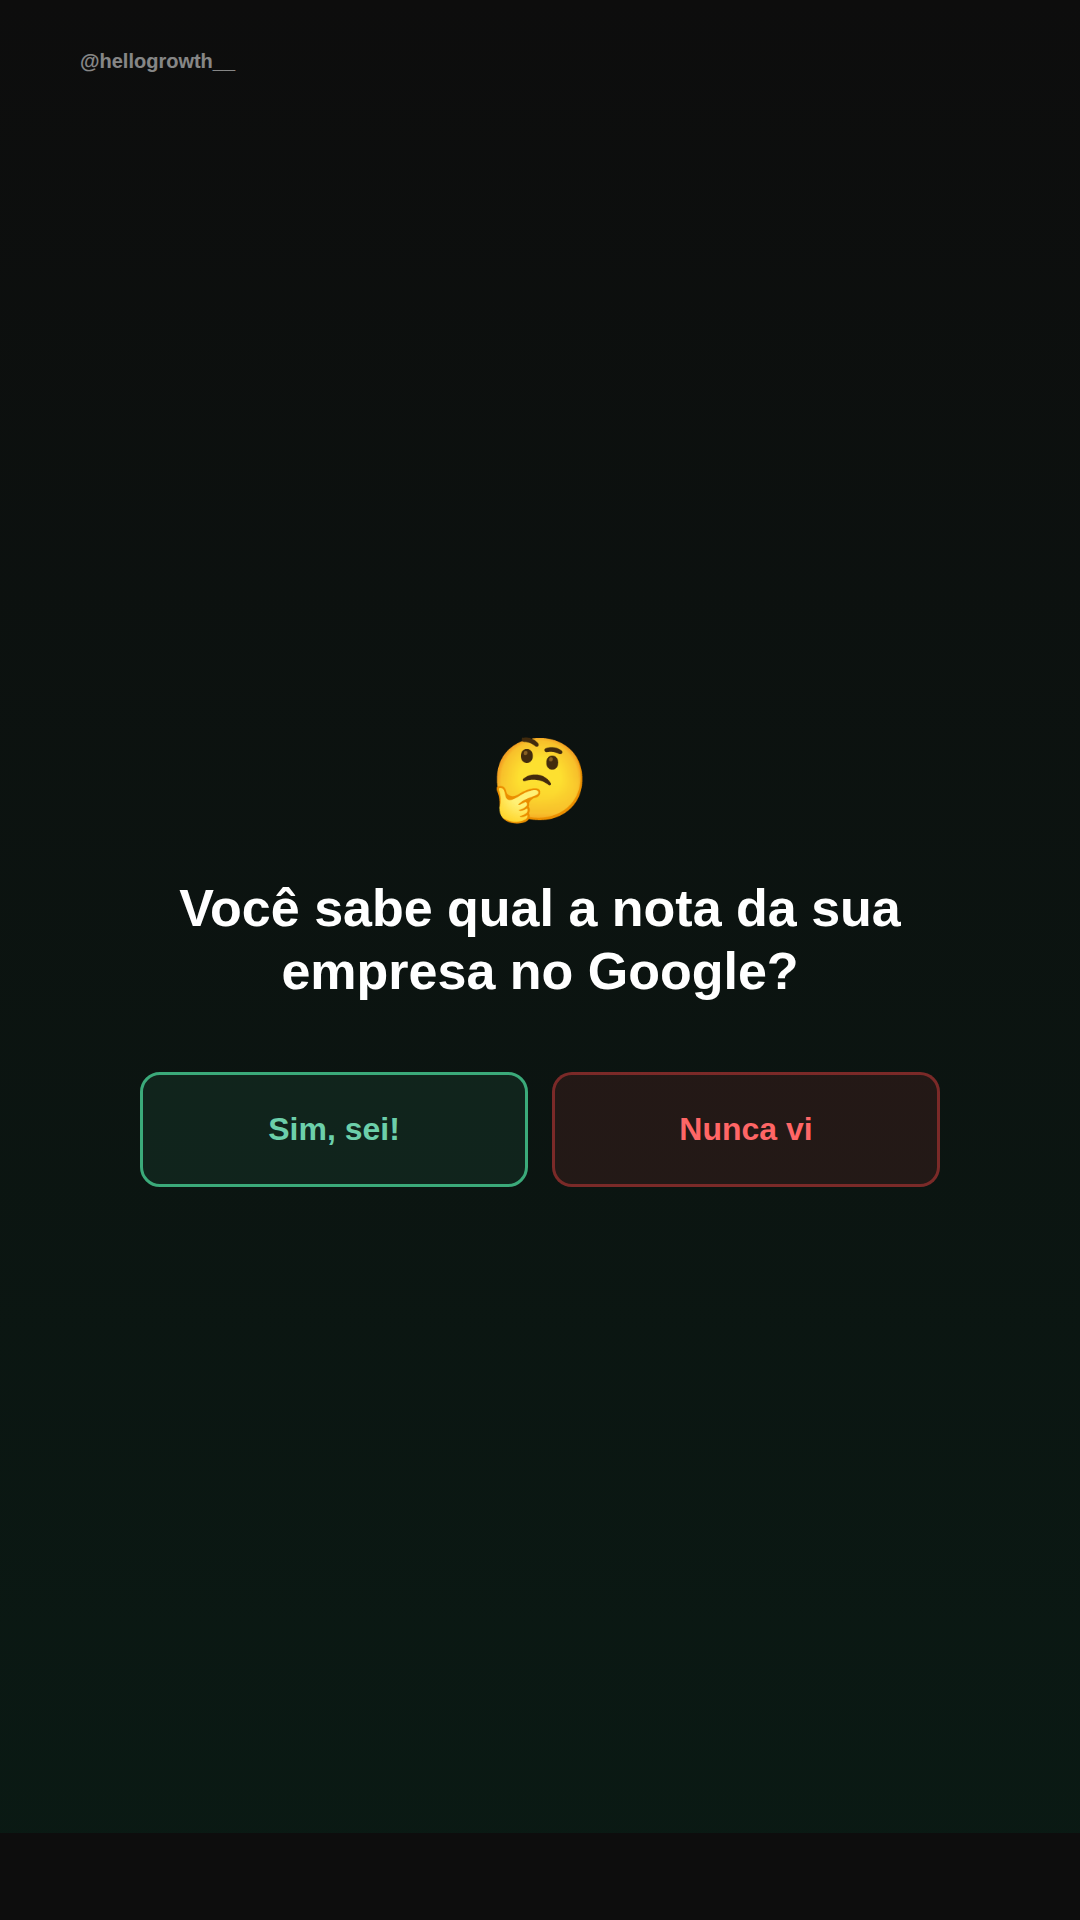
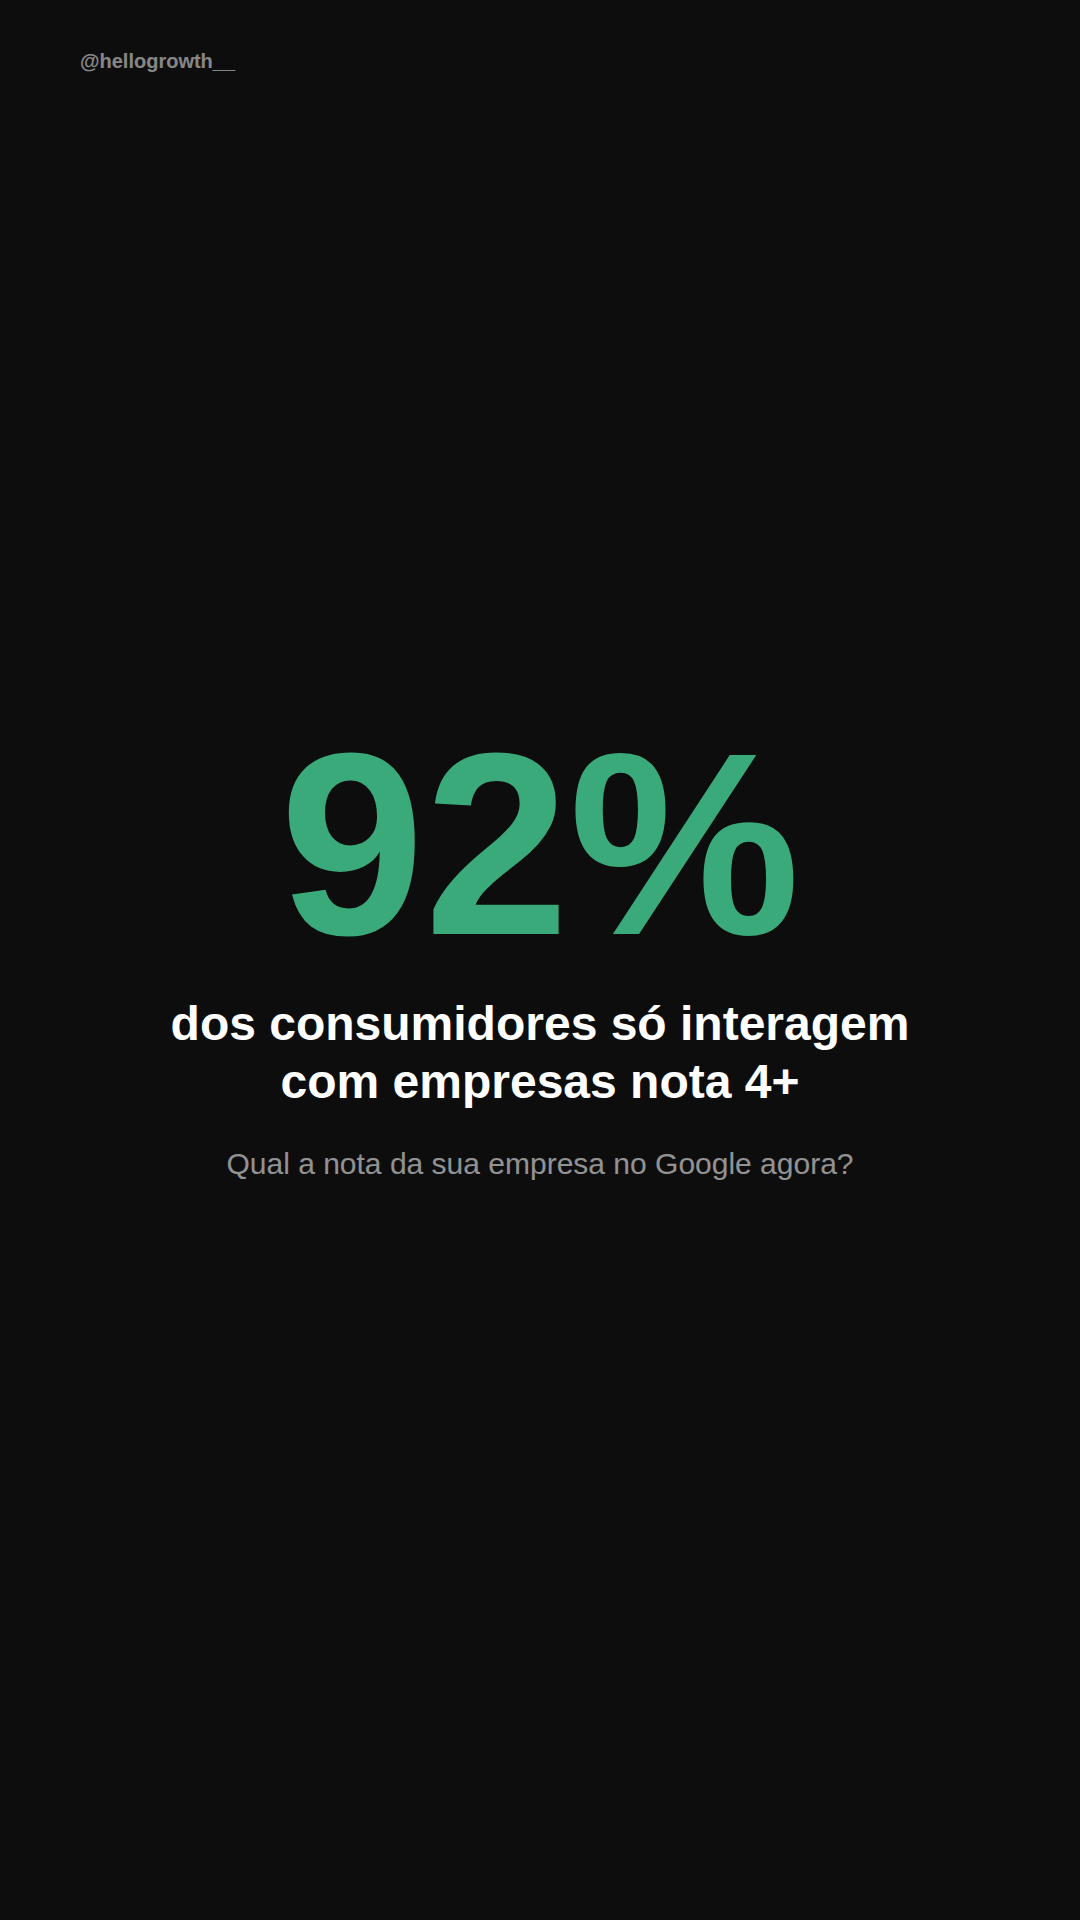
Update stories: clean text-only design, no fake interactive elements
- Story 1: 92% data impact (clean text)
- Story 2: 3 practical tips (clean text)
- Removed fake polls/quizzes (use native Instagram stickers instead)

https://claude.ai/code/session_01RXRUyw64HWp6pgoosUTsE4

Changed region(s): [[0.1528, 0.375, 0.8556, 0.625], [0.1222, 0.5938, 0.1528, 0.625]]

diff --git a/squads/social-content/output/2026-03-26-stories/story-02.html b/squads/social-content/output/2026-03-26-stories/story-02.html
@@ -8,25 +8,24 @@
 html, body { background: #0d0d0d; width: 1080px; height: 1920px; font-family: 'Montserrat', sans-serif; overflow: hidden; }
 .story { width: 1080px; height: 1920px; padding: 80px; display: flex; flex-direction: column; justify-content: center; align-items: center; background: #0d0d0d; color: #fff; text-align: center; position: relative; }
 .handle { position: absolute; top: 50px; left: 80px; font-size: 20px; font-weight: 700; opacity: 0.5; text-align: left; }
-.big-number { font-size: 240px; font-weight: 900; color: #3BAA7A; line-height: 0.85; margin-bottom: 30px; }
-.text { font-size: 44px; font-weight: 700; line-height: 1.3; margin-bottom: 70px; max-width: 850px; }
-.slider-track { width: 100%; max-width: 800px; background: rgba(255,255,255,0.08); border-radius: 30px; height: 60px; position: relative; overflow: hidden; }
-.slider-fill { width: 92%; height: 100%; background: linear-gradient(90deg, #2D7D5F, #6CCFAA); border-radius: 30px; display: flex; align-items: center; justify-content: flex-end; padding-right: 20px; }
-.slider-emoji { font-size: 36px; }
-.slider-label { font-size: 24px; font-weight: 500; opacity: 0.45; margin-top: 20px; }
+.label { font-size: 18px; font-weight: 800; text-transform: uppercase; letter-spacing: 5px; color: #2D7D5F; margin-bottom: 50px; }
+.headline { font-size: 48px; font-weight: 900; line-height: 1.15; margin-bottom: 60px; max-width: 850px; }
+.accent { color: #6CCFAA; }
+.tips { width: 100%; max-width: 850px; text-align: left; }
+.tip { background: rgba(45,125,95,0.08); border-left: 4px solid #3BAA7A; padding: 28px 34px; border-radius: 0 16px 16px 0; margin-bottom: 24px; font-size: 30px; font-weight: 500; line-height: 1.4; }
+.tip-num { color: #6CCFAA; font-weight: 900; margin-right: 14px; }
 </style>
 </head>
 <body>
 <div class="story">
   <div class="handle">@hellogrowth__</div>
-  <div class="big-number">92%</div>
-  <div class="text">dos consumidores só interagem com empresas nota 4+</div>
-  <div class="slider-track">
-    <div class="slider-fill">
-      <span class="slider-emoji">🔥</span>
-    </div>
+  <div class="label">Dica do dia</div>
+  <div class="headline">3 ações para <span class="accent">melhorar</span> sua nota no Google hoje</div>
+  <div class="tips">
+    <div class="tip"><span class="tip-num">1.</span> Responda TODA avaliação em até 24h</div>
+    <div class="tip"><span class="tip-num">2.</span> Peça feedback após cada venda</div>
+    <div class="tip"><span class="tip-num">3.</span> Resolva reclamações em público, não no privado</div>
   </div>
-  <div class="slider-label">Quão preparada tá sua empresa?</div>
 </div>
 </body>
 </html>

diff --git a/squads/social-content/output/2026-03-26-stories/story-01.html b/squads/social-content/output/2026-03-26-stories/story-01.html
@@ -6,25 +6,19 @@
 <style>
 * { margin: 0; padding: 0; box-sizing: border-box; }
 html, body { background: #0d0d0d; width: 1080px; height: 1920px; font-family: 'Montserrat', sans-serif; overflow: hidden; }
-.story { width: 1080px; height: 1920px; padding: 80px; display: flex; flex-direction: column; justify-content: center; align-items: center; background: linear-gradient(180deg, #0d0d0d 0%, #0a1a14 100%); color: #fff; text-align: center; position: relative; }
+.story { width: 1080px; height: 1920px; padding: 80px; display: flex; flex-direction: column; justify-content: center; align-items: center; background: #0d0d0d; color: #fff; text-align: center; position: relative; }
 .handle { position: absolute; top: 50px; left: 80px; font-size: 20px; font-weight: 700; opacity: 0.5; text-align: left; }
-.emoji { font-size: 80px; margin-bottom: 50px; }
-.question { font-size: 52px; font-weight: 900; line-height: 1.2; margin-bottom: 70px; max-width: 850px; }
-.poll { display: flex; gap: 24px; width: 100%; max-width: 800px; }
-.poll-option { flex: 1; padding: 36px; border-radius: 20px; font-size: 32px; font-weight: 700; text-align: center; }
-.poll-yes { background: rgba(45,125,95,0.15); border: 3px solid #3BAA7A; color: #6CCFAA; }
-.poll-no { background: rgba(255,68,68,0.1); border: 3px solid rgba(255,68,68,0.4); color: #FF6666; }
+.big-number { font-size: 260px; font-weight: 900; color: #3BAA7A; line-height: 0.85; margin-bottom: 40px; }
+.headline { font-size: 48px; font-weight: 900; line-height: 1.2; margin-bottom: 30px; max-width: 850px; }
+.body-text { font-size: 30px; font-weight: 400; opacity: 0.55; line-height: 1.5; max-width: 800px; }
 </style>
 </head>
 <body>
 <div class="story">
   <div class="handle">@hellogrowth__</div>
-  <div class="emoji">🤔</div>
-  <div class="question">Você sabe qual a nota da sua empresa no Google?</div>
-  <div class="poll">
-    <div class="poll-option poll-yes">Sim, sei!</div>
-    <div class="poll-option poll-no">Nunca vi</div>
-  </div>
+  <div class="big-number">92%</div>
+  <div class="headline">dos consumidores só interagem com empresas nota 4+</div>
+  <div class="body-text">Qual a nota da sua empresa no Google agora?</div>
 </div>
 </body>
 </html>
